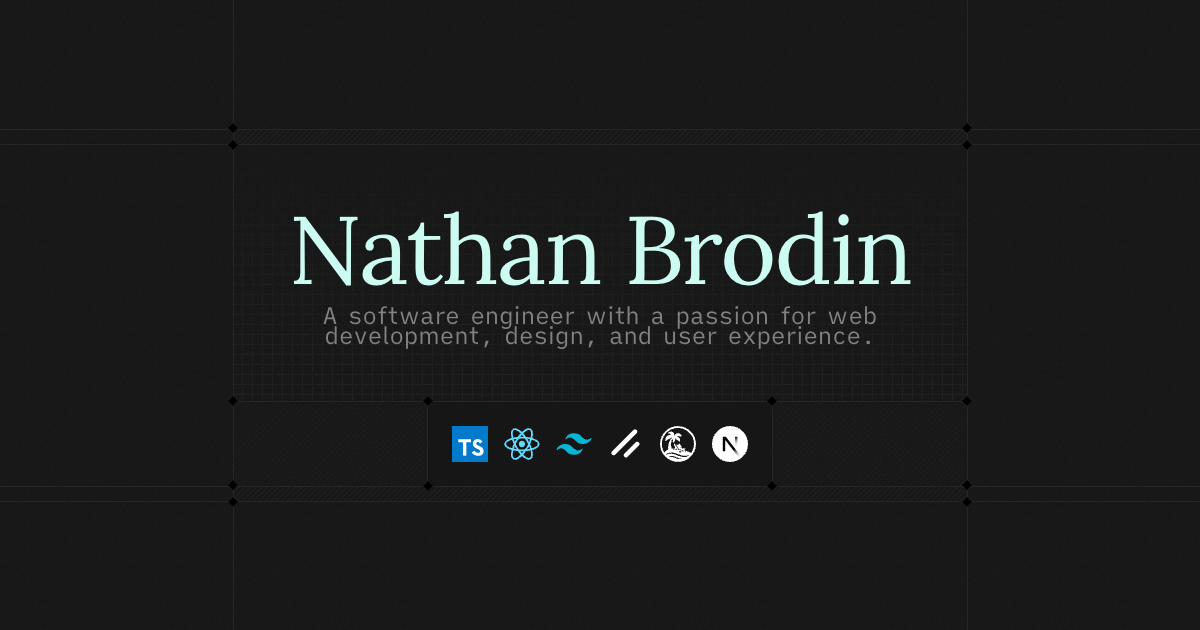
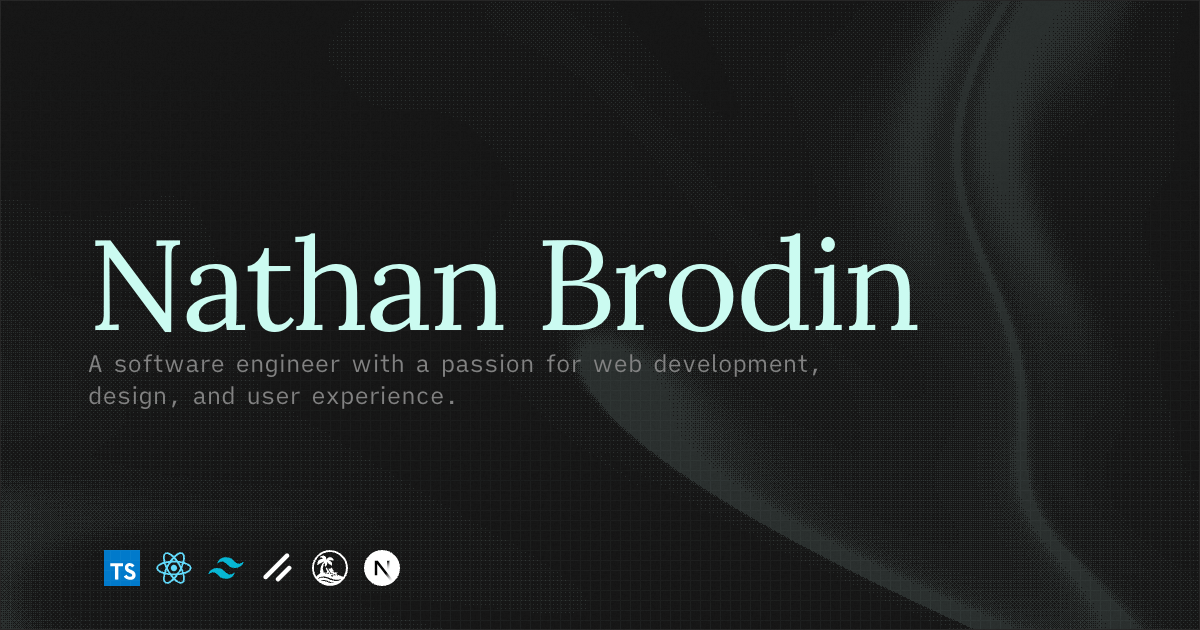
feat(Blog): og image

Changed region(s): [[0.0617, 0.0, 0.9558, 1.0], [0.0617, 0.8746, 0.3392, 0.9349], [0.0, 0.7841, 0.0925, 0.9952]]

diff --git a/src/routes/og/index.tsx b/src/routes/og/index.tsx
@@ -1,9 +1,11 @@
+import { useTheme } from '@lonik/themer'
+import { Dithering } from '@paper-design/shaders-react'
+
 import { createFileRoute } from '@tanstack/react-router'
 
 import { Grid } from '@/components/ui/backgrounds/grid'
-import { Lines } from '@/components/ui/backgrounds/lines'
-import { Noise } from '@/components/ui/backgrounds/noise'
-import { Diamond } from '@/components/ui/diamond'
+import { Page, PageDescription, PageTitle } from '@/components/ui/page'
+import { Section } from '@/components/ui/section'
 import { TECH_STACK } from '@/config/tech-stack'
 
 export const Route = createFileRoute('/og/')({
@@ -11,6 +13,8 @@ export const Route = createFileRoute('/og/')({
 })
 
 function RouteComponent() {
+  const { resolvedTheme } = useTheme()
+
   const keys = [
     'typescript',
     'react',
@@ -26,93 +30,72 @@ function RouteComponent() {
   })
 
   return (
-    <main className="flex h-full w-full flex-1 items-center justify-center">
+    <Page>
       <div
         id="og"
-        className="relative flex items-center justify-center overflow-hidden"
+        className="relative mt-2 flex flex-col items-center overflow-hidden border"
         style={{ width: 1200, height: 630 }}
       >
-        <Noise />
-        <div className="relative flex flex-col">
-          {/* Full-height vertical lines */}
-          <div className="bg-border pointer-events-none absolute top-1/2 left-0 z-10 h-[200vh] w-[0.5px] -translate-y-1/2" />
-          <div className="bg-border pointer-events-none absolute top-1/2 right-0 z-10 h-[200vh] w-[0.5px] -translate-y-1/2" />
-
-          {/* Top divider */}
-          <div className="before:bg-border after:bg-border relative flex h-4 items-center justify-between px-4 py-1 before:absolute before:top-0 before:-left-[100vw] before:z-10 before:h-[0.5px] before:w-[200vw] after:absolute after:bottom-0 after:-left-[100vw] after:z-10 after:h-[0.5px] after:w-[200vw]">
-            <Diamond top left className="left-[-4px] z-50" />
-            <Diamond top right className="right-[-4px] z-50" />
-            <Diamond bottom left className="left-[-4px] z-50" />
-            <Diamond bottom right className="right-[-4px] z-50" />
-            <Lines />
-          </div>
-
-          {/* Content */}
-          <div className="relative flex flex-col items-center justify-center p-14 text-center">
-            <h1 className="font-display text-primary text-8xl font-normal">
-              Nathan Brodin
-            </h1>
-            <p className="text-muted-foreground mt-2 max-w-xl text-2xl leading-5">
-              A software engineer with a passion for web development, design,
-              and user experience.
-            </p>
-            <Grid />
-          </div>
-
-          {/* Tech stack */}
-          <div className="border-t-border relative flex items-center justify-center border-t-[0.5px]">
-            <Diamond top left className="left-[-4px] z-50" />
-            <Diamond top right className="right-[-4px] z-50" />
-            <Lines className="opacity-5 select-none dark:opacity-2" />
-            <ul className="flew-wrap bg-background border-x-border relative flex gap-4 border-x-[0.5px] p-6">
-              <Diamond top left className="left-[-4px] z-50" />
-              <Diamond top right className="right-[-4px] z-50" />
-              <Diamond bottom left className="left-[-4px] z-50" />
-              <Diamond bottom right className="right-[-4px] z-50" />
-              {stack.map((tech) => {
-                return (
-                  <li key={tech.key} className="flex">
-                    {tech.theme ? (
-                      <>
-                        <img
-                          src={`/tech-stack-icons/${tech.key}-light.svg`}
-                          alt={`${tech.title} light icon`}
-                          width={36}
-                          height={36}
-                          className="block dark:hidden"
-                        />
-                        <img
-                          src={`/tech-stack-icons/${tech.key}-dark.svg`}
-                          alt={`${tech.title} dark icon`}
-                          width={36}
-                          height={36}
-                          className="hidden dark:block"
-                        />
-                      </>
-                    ) : (
+        <Section className="h-full border-none"></Section>
+        <Section className="flex h-fit flex-col border-none py-24">
+          <PageTitle className="text-9xl">Nathan Brodin</PageTitle>
+          <PageDescription className="max-w-3xl text-2xl">
+            A software engineer with a passion for web development, design, and
+            user experience.
+          </PageDescription>
+        </Section>
+        <Section className="h-full border-none">
+          <ul className="flew-wrap relative flex gap-4 p-4">
+            {stack.map((tech) => {
+              return (
+                <li key={tech.key} className="flex">
+                  {tech.theme ? (
+                    <>
                       <img
-                        src={`/tech-stack-icons/${tech.key}.svg`}
-                        alt={`${tech.title} icon`}
+                        src={`/tech-stack-icons/${tech.key}-light.svg`}
+                        alt={`${tech.title} light icon`}
                         width={36}
                         height={36}
+                        className="block dark:hidden"
                       />
-                    )}
-                  </li>
-                )
-              })}
-            </ul>
-          </div>
+                      <img
+                        src={`/tech-stack-icons/${tech.key}-dark.svg`}
+                        alt={`${tech.title} dark icon`}
+                        width={36}
+                        height={36}
+                        className="hidden dark:block"
+                      />
+                    </>
+                  ) : (
+                    <img
+                      src={`/tech-stack-icons/${tech.key}.svg`}
+                      alt={`${tech.title} icon`}
+                      width={36}
+                      height={36}
+                    />
+                  )}
+                </li>
+              )
+            })}
+          </ul>
+        </Section>
 
-          {/* Bottom divider */}
-          <div className="before:bg-border after:bg-border relative flex h-4 items-center justify-between px-4 py-1 before:absolute before:top-0 before:-left-[100vw] before:z-10 before:h-[0.5px] before:w-[200vw] after:absolute after:bottom-0 after:-left-[100vw] after:z-10 after:h-[0.5px] after:w-[200vw]">
-            <Diamond top left className="left-[-4px] z-50" />
-            <Diamond top right className="right-[-4px] z-50" />
-            <Diamond bottom left className="left-[-4px] z-50" />
-            <Diamond bottom right className="right-[-4px] z-50" />
-            <Lines />
-          </div>
+        <div className="pointer-events-none absolute inset-0 -z-1 h-full w-full overflow-hidden opacity-10">
+          <Dithering
+            width={1200}
+            height={630}
+            colorBack={resolvedTheme === 'dark' ? '#000000' : '#FFFFFF'}
+            colorFront={resolvedTheme === 'dark' ? '#cbfbf1' : '#00786f'}
+            shape="warp"
+            type="4x4"
+            size={1.0}
+            speed={0}
+            scale={1.84}
+            offsetX={1.4}
+          />
         </div>
+        <Grid />
       </div>
-    </main>
+    </Page>
   )
 }

diff --git a/src/routeTree.gen.ts b/src/routeTree.gen.ts
@@ -13,6 +13,7 @@ import { Route as IndexRouteImport } from './routes/index'
 import { Route as OgIndexRouteImport } from './routes/og/index'
 import { Route as BlogIndexRouteImport } from './routes/blog/index'
 import { Route as BlogSlugIndexRouteImport } from './routes/blog/$slug/index'
+import { Route as BlogSlugOgIndexRouteImport } from './routes/blog/$slug/og/index'
 
 const IndexRoute = IndexRouteImport.update({
   id: '/',
@@ -34,18 +35,25 @@ const BlogSlugIndexRoute = BlogSlugIndexRouteImport.update({
   path: '/blog/$slug/',
   getParentRoute: () => rootRouteImport,
 } as any)
+const BlogSlugOgIndexRoute = BlogSlugOgIndexRouteImport.update({
+  id: '/blog/$slug/og/',
+  path: '/blog/$slug/og/',
+  getParentRoute: () => rootRouteImport,
+} as any)
 
 export interface FileRoutesByFullPath {
   '/': typeof IndexRoute
   '/blog/': typeof BlogIndexRoute
   '/og/': typeof OgIndexRoute
   '/blog/$slug/': typeof BlogSlugIndexRoute
+  '/blog/$slug/og/': typeof BlogSlugOgIndexRoute
 }
 export interface FileRoutesByTo {
   '/': typeof IndexRoute
   '/blog': typeof BlogIndexRoute
   '/og': typeof OgIndexRoute
   '/blog/$slug': typeof BlogSlugIndexRoute
+  '/blog/$slug/og': typeof BlogSlugOgIndexRoute
 }
 export interface FileRoutesById {
   __root__: typeof rootRouteImport
@@ -53,13 +61,14 @@ export interface FileRoutesById {
   '/blog/': typeof BlogIndexRoute
   '/og/': typeof OgIndexRoute
   '/blog/$slug/': typeof BlogSlugIndexRoute
+  '/blog/$slug/og/': typeof BlogSlugOgIndexRoute
 }
 export interface FileRouteTypes {
   fileRoutesByFullPath: FileRoutesByFullPath
-  fullPaths: '/' | '/blog/' | '/og/' | '/blog/$slug/'
+  fullPaths: '/' | '/blog/' | '/og/' | '/blog/$slug/' | '/blog/$slug/og/'
   fileRoutesByTo: FileRoutesByTo
-  to: '/' | '/blog' | '/og' | '/blog/$slug'
-  id: '__root__' | '/' | '/blog/' | '/og/' | '/blog/$slug/'
+  to: '/' | '/blog' | '/og' | '/blog/$slug' | '/blog/$slug/og'
+  id: '__root__' | '/' | '/blog/' | '/og/' | '/blog/$slug/' | '/blog/$slug/og/'
   fileRoutesById: FileRoutesById
 }
 export interface RootRouteChildren {
@@ -67,6 +76,7 @@ export interface RootRouteChildren {
   BlogIndexRoute: typeof BlogIndexRoute
   OgIndexRoute: typeof OgIndexRoute
   BlogSlugIndexRoute: typeof BlogSlugIndexRoute
+  BlogSlugOgIndexRoute: typeof BlogSlugOgIndexRoute
 }
 
 declare module '@tanstack/react-router' {
@@ -99,6 +109,13 @@ declare module '@tanstack/react-router' {
       preLoaderRoute: typeof BlogSlugIndexRouteImport
       parentRoute: typeof rootRouteImport
     }
+    '/blog/$slug/og/': {
+      id: '/blog/$slug/og/'
+      path: '/blog/$slug/og'
+      fullPath: '/blog/$slug/og/'
+      preLoaderRoute: typeof BlogSlugOgIndexRouteImport
+      parentRoute: typeof rootRouteImport
+    }
   }
 }
 
@@ -107,6 +124,7 @@ const rootRouteChildren: RootRouteChildren = {
   BlogIndexRoute: BlogIndexRoute,
   OgIndexRoute: OgIndexRoute,
   BlogSlugIndexRoute: BlogSlugIndexRoute,
+  BlogSlugOgIndexRoute: BlogSlugOgIndexRoute,
 }
 export const routeTree = rootRouteImport
   ._addFileChildren(rootRouteChildren)

diff --git a/src/routes/blog/$slug/og/index.tsx b/src/routes/blog/$slug/og/index.tsx
@@ -1,0 +1,77 @@
+import { useTheme } from '@lonik/themer'
+import { Dithering } from '@paper-design/shaders-react'
+import { allBlogPosts } from 'content-collections'
+
+import { createFileRoute, notFound } from '@tanstack/react-router'
+
+import { Grid } from '@/components/ui/backgrounds/grid'
+import { Page, PageDescription, PageTitle } from '@/components/ui/page'
+import { Section } from '@/components/ui/section'
+import { SectionDivider } from '@/components/ui/section-divider'
+
+function findPost(slug: string) {
+  return allBlogPosts.find((post) => post.slug === slug && post.published)
+}
+
+export const Route = createFileRoute('/blog/$slug/og/')({
+  loader: ({ params }) => {
+    const post = findPost(params.slug)
+    if (!post) {
+      throw notFound()
+    }
+    return { post }
+  },
+  component: RouteComponent,
+})
+
+function formatDate(dateStr: string): string {
+  const date = new Date(dateStr)
+  return date.toLocaleDateString('en-US', {
+    year: 'numeric',
+    month: 'long',
+    day: 'numeric',
+  })
+}
+
+function RouteComponent() {
+  const { post } = Route.useLoaderData()
+  const { resolvedTheme } = useTheme()
+
+  return (
+    <Page>
+      <div
+        id="og"
+        className="relative mt-2 flex flex-col items-center overflow-hidden border"
+        style={{ width: 1200, height: 630 }}
+      >
+        <Section className="h-full border-none p-8">
+          <span className="text-muted-foreground font-display text-4xl font-medium text-balance">
+            Nathan Brodin
+          </span>
+        </Section>
+        <Section className="flex h-fit flex-col border-none py-24">
+          <PageTitle className="text-7xl">{post.title}</PageTitle>
+          <PageDescription className="text-muted-foreground mt-2 font-mono text-xl">
+            {formatDate(post.date)}
+          </PageDescription>
+        </Section>
+        <Section className="h-full border-none"></Section>
+        <div className="pointer-events-none absolute inset-0 -z-1 h-full w-full overflow-hidden opacity-10">
+          <Dithering
+            width={1200}
+            height={630}
+            colorBack={resolvedTheme === 'dark' ? '#000000' : '#FFFFFF'}
+            colorFront={resolvedTheme === 'dark' ? '#cbfbf1' : '#00786f'}
+            shape="warp"
+            type="4x4"
+            size={1.0}
+            speed={0}
+            scale={1.84}
+            offsetX={1.4}
+          />
+        </div>
+        <Grid />
+      </div>
+    </Page>
+  )
+}
